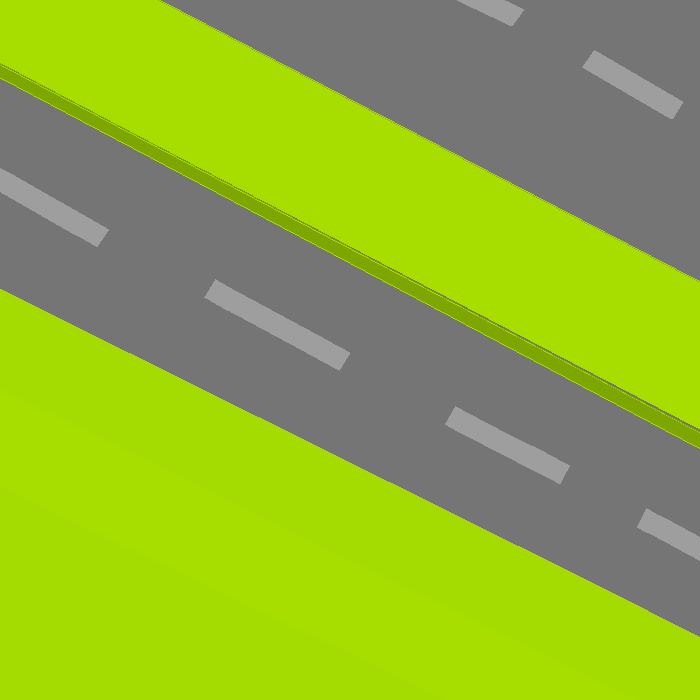
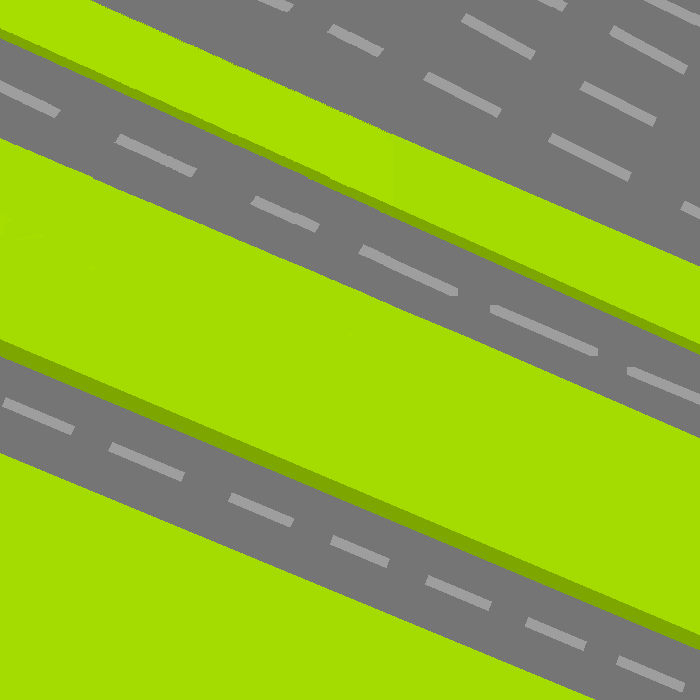
resized everything

diff --git a/Crossy Road Rip-off/src/Chicken.java b/Crossy Road Rip-off/src/Chicken.java
@@ -9,7 +9,7 @@ import java.awt.geom.AffineTransform;
 import java.net.URL;
 
 public class Chicken implements MouseListener{
-	private int x = 200,y = 500;
+	private int x = 150,y = 600;
 	private int vx, vy;
 	private Image img; // image of the duck
 	private AffineTransform tx = AffineTransform.getTranslateInstance(x, y);
@@ -29,6 +29,7 @@ public class Chicken implements MouseListener{
 
 		x += vx;
 		y += vy;
+		
 		
 		//reset velocity if hits bottom of frame
 //		if(y>=600) {
@@ -52,7 +53,7 @@ public class Chicken implements MouseListener{
 
 		//call this line of code any time there is an update to x and y
 		tx.setToTranslation(x, y); // must call this any time you update x and y;
-		
+		//tx.scale(3, 3);
 		//these are the 2 lines of code needed draw an image on the screen
 		Graphics2D g2 = (Graphics2D) g;
 		g2.drawImage(img, tx, null);   
@@ -77,8 +78,8 @@ public class Chicken implements MouseListener{
 			
 			//ducks falls
 			if(y<1000) {
-				y-=10;
-				x+=5;
+				y-=30;
+				x+=15;
 				vx=0;
 				//vy=-1;
 			}

diff --git a/Crossy Road Rip-off/src/Car.java b/Crossy Road Rip-off/src/Car.java
@@ -7,7 +7,7 @@ import java.net.URL;
 
 public class Car {
 	private int x, y;
-	private int vx, vy;
+	private double vx, vy;
 	private Image img; // image of the frog
 	private AffineTransform tx = AffineTransform.getTranslateInstance(x, y);
 
@@ -16,8 +16,9 @@ public class Car {
 		init(x, y);				//initialize the location of the image
 		this.x = x;
 		this.y = y;
-		vx = (int)(Math.random()*(10-2+1))+2;
-		vy = vx;
+		vx = 5;
+		//vx = (int)(Math.random()*(10-2+1))+2;
+		vy = vx-2.5;
 		//if(Math.random()<.5) {
 		//	vx*=-1;
 		//}
@@ -36,7 +37,7 @@ public class Car {
 		//if duck hits the sides of the frame, it will bounce in the opposite direction
 		if(x <= 0 || x>= 800) {
 			x = 0;
-			y = 180;
+			y = 370;
 			init(x,y);
 		}
 		//if duck hits top of frame, reinitialize behind grass
@@ -46,6 +47,7 @@ public class Car {
 			init(x,y);
 			}
 		tx.setToTranslation(x, y);
+		tx.scale(1.5, 1.5);
 		
 		
 		//these are the 2 lines of code needed draw an image on the screen

diff --git a/Crossy Road Rip-off/src/Frame.java b/Crossy Road Rip-off/src/Frame.java
@@ -22,9 +22,9 @@ public class Frame extends JPanel implements ActionListener, MouseListener, KeyL
 	Ground foreground = new Ground();
 	
 	//2) try the same thing with the Tree class
-	Car car = new Car(0,180);
-	Car car1 = new Car(0,100);
-	Car car2 = new Car(0,0);
+	Car car = new Car(0,370);
+//	Car car1 = new Car(0,100);
+//	Car car2 = new Car(0,0);
 	Chicken chick = new Chicken();
 	Dog dog = new Dog();
 	
@@ -40,8 +40,8 @@ public class Frame extends JPanel implements ActionListener, MouseListener, KeyL
 		foreground.paint(g);
 
 		car.paint(g);
-		car1.paint(g);
-		car2.paint(g);
+//		car1.paint(g);
+//		car2.paint(g);
 		chick.paint(g);
 		dog.paint(g);
 		
